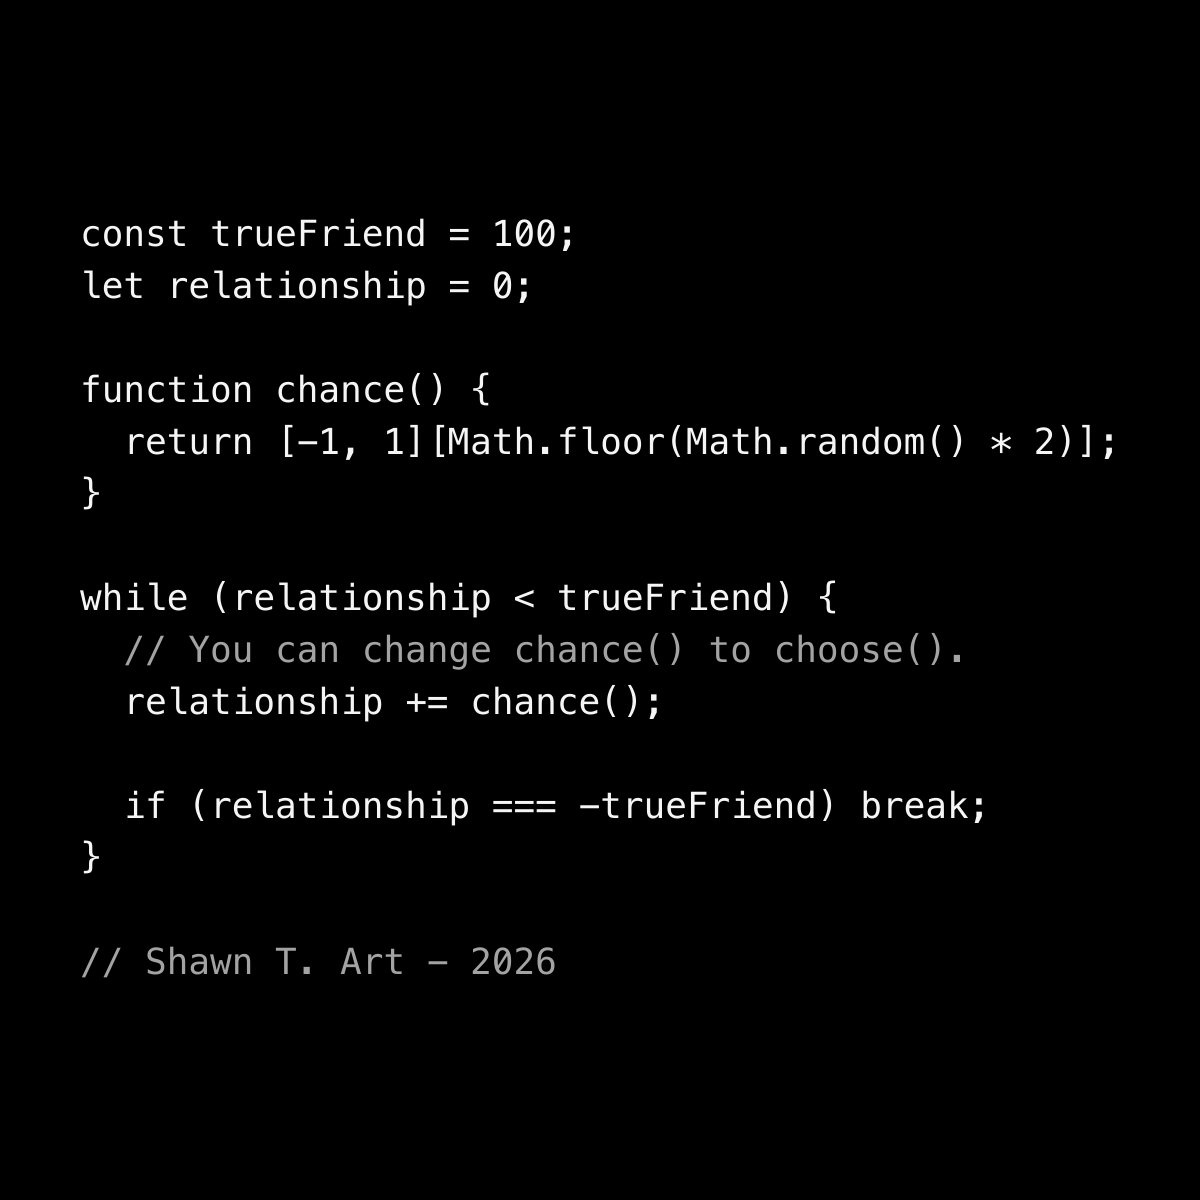
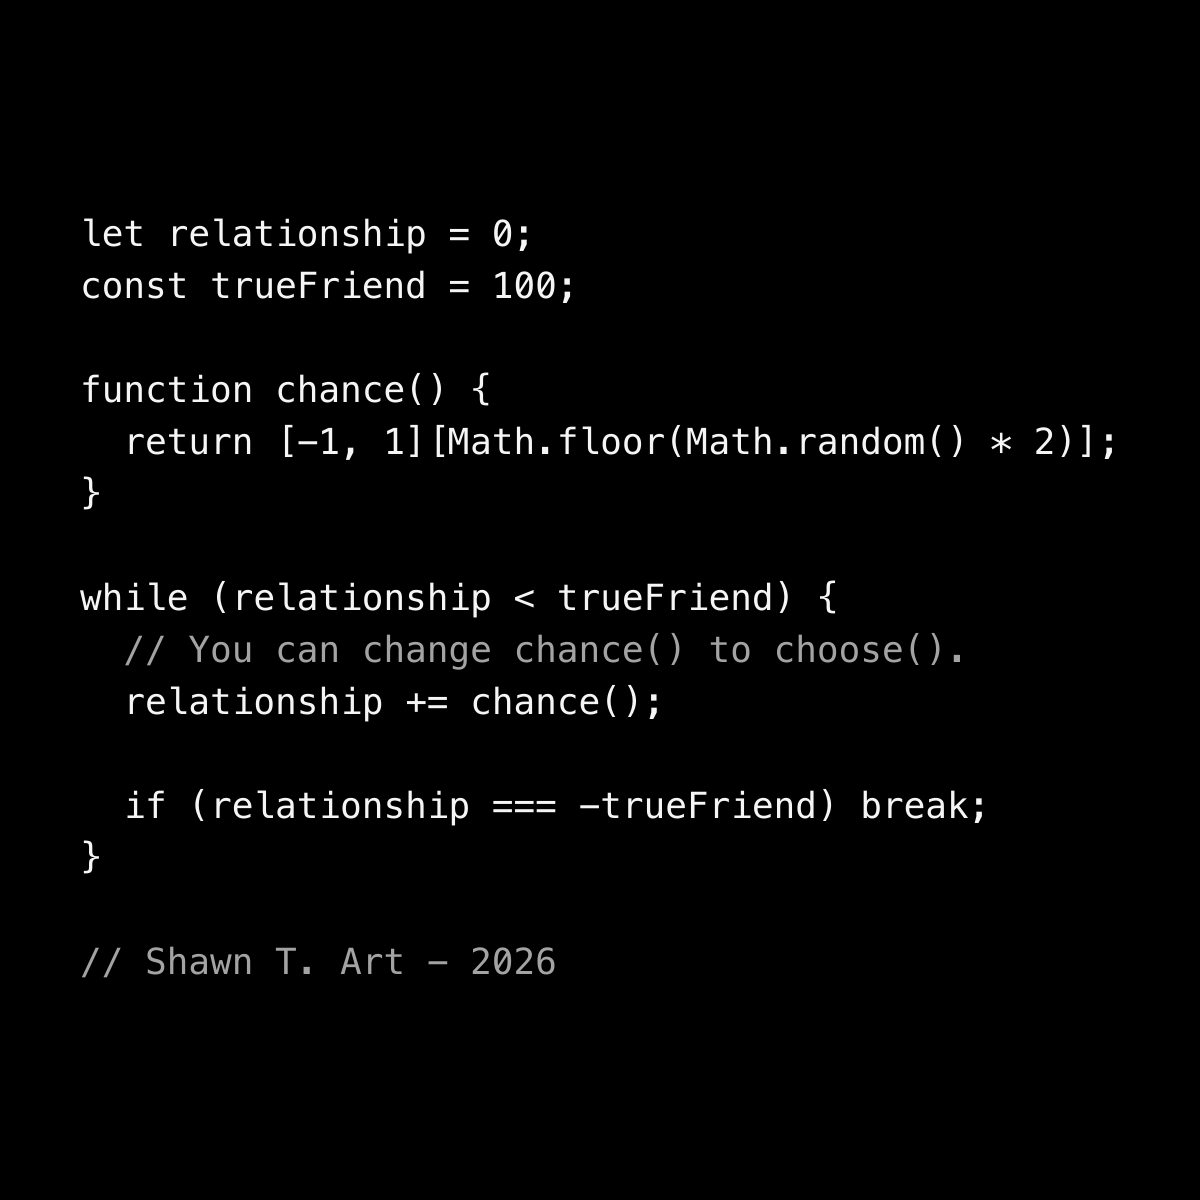
fix a bit

Changed region(s): [[0.0617, 0.185, 0.37, 0.2467], [0.4008, 0.185, 0.4625, 0.2467]]

diff --git a/components/unusefulcodes.tsx b/components/unusefulcodes.tsx
@@ -65,8 +65,8 @@ while (human) {
     number: "03",
     title: "Relationship",
     slug: "relationship",
-    code: `const trueFriend = 100;
-let relationship = 0;
+    code: `let relationship = 0;
+const trueFriend = 100;
 
 function chance() {
   return [-1, 1][Math.floor(Math.random() * 2)];
